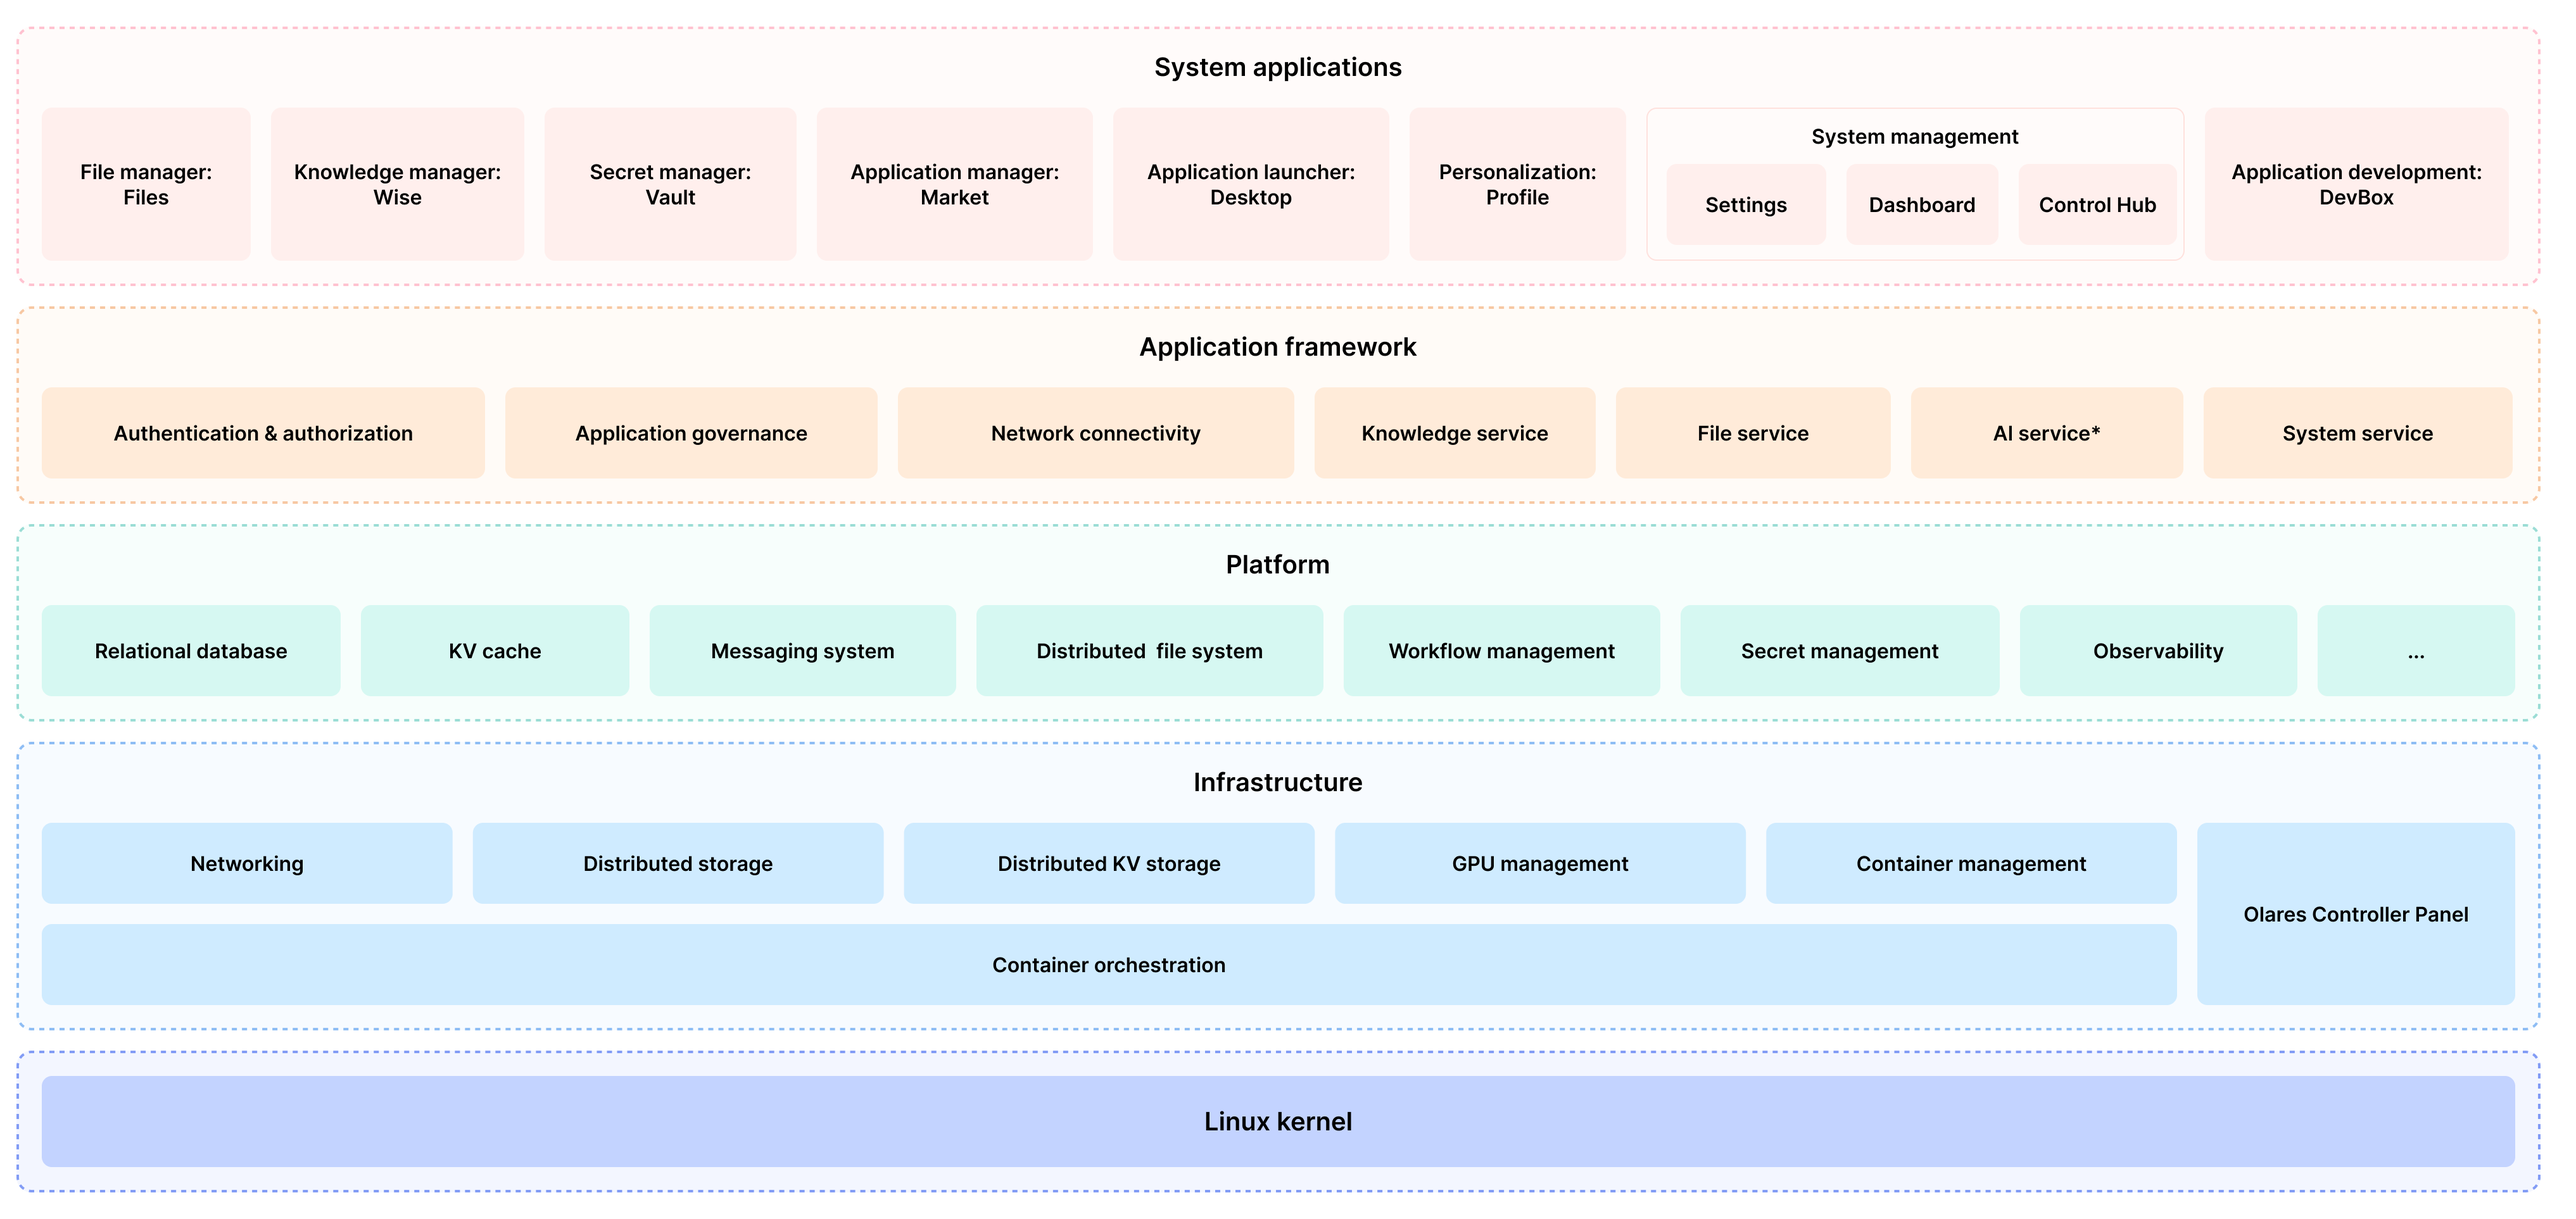
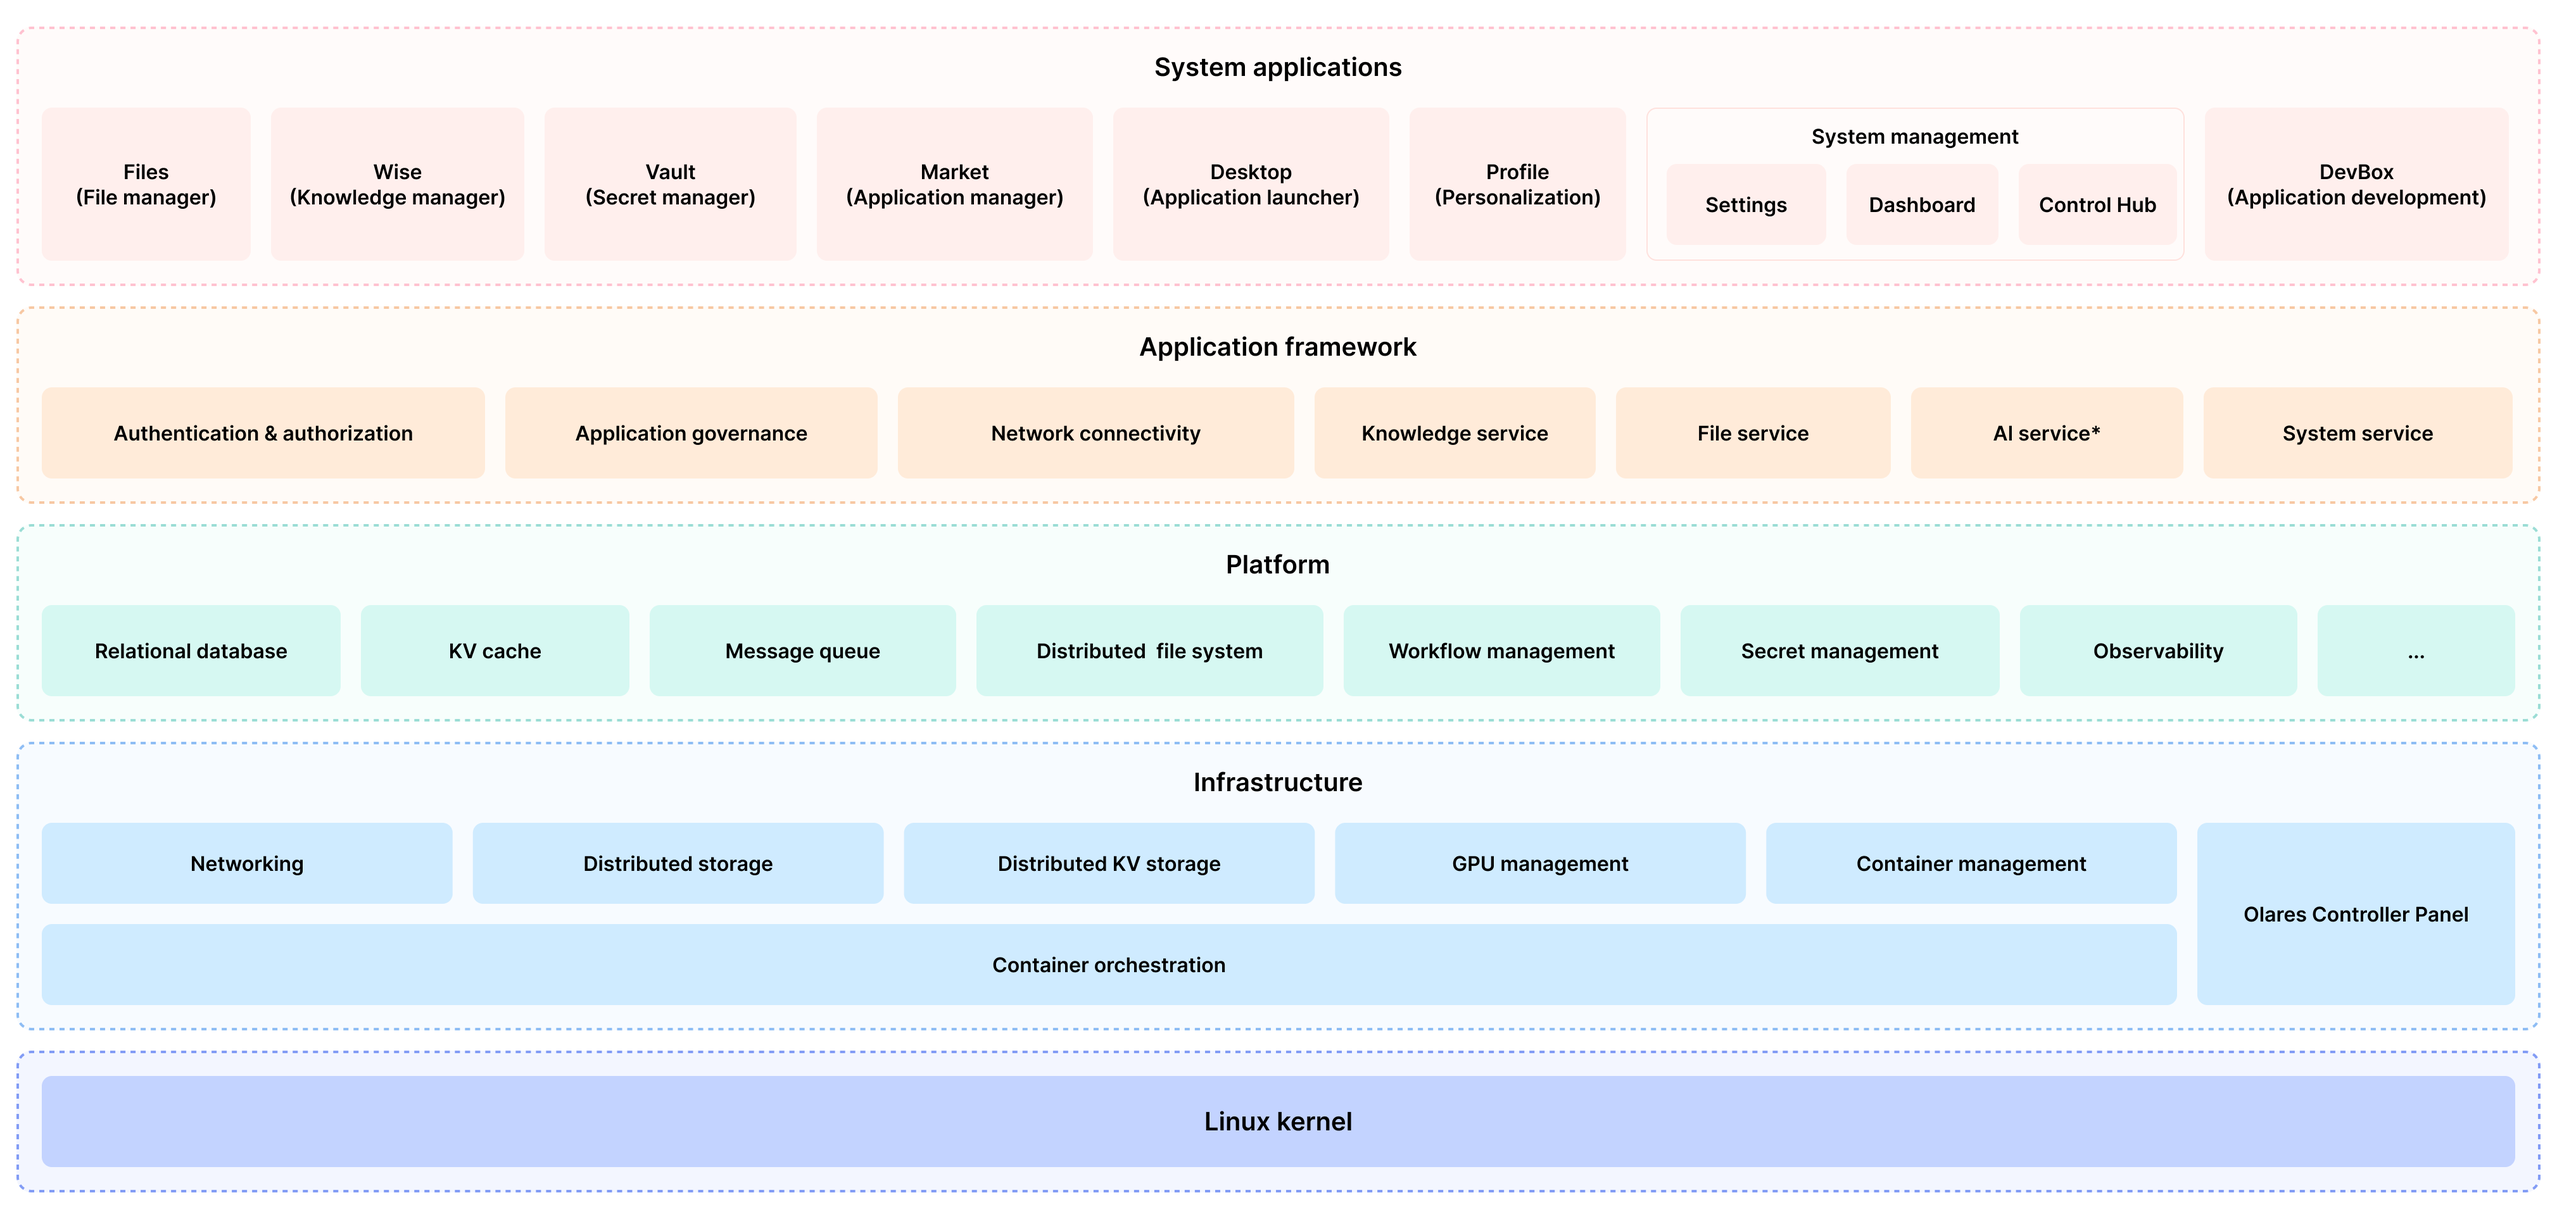
fix architecture wording

diff --git a/docs/.vitepress/en.ts b/docs/.vitepress/en.ts
@@ -8,7 +8,7 @@ const side = {
       items: [
         { text: "Why Olares", link: "/manual/why-olares" },
         { text: "Feature comparison", link: "/manual/feature-overview" },
-        { text: "Olares architecture", link: "/manual/platform-architecture" },
+        { text: "Olares architecture", link: "/manual/system-architecture" },
         {
           text: "Help and support",
           collapsed: true,

diff --git a/docs/.vitepress/zh.ts b/docs/.vitepress/zh.ts
@@ -8,7 +8,7 @@ const side = {
       items: [
         { text: "应用场景", link: "/zh/manual/why-olares" },
         { text: "功能对比", link: "/zh/manual/feature-overview" },
-        { text: "系统架构", link: "/zh/manual/platform-architecture" },
+        { text: "系统架构", link: "/zh/manual/system-architecture" },
         {
           text: "帮助与支持",
           collapsed: true,

diff --git a/docs/manual/system-architecture.md b/docs/manual/system-architecture.md
@@ -85,7 +85,7 @@ In the future, PostgreSQL is expected to migrate to the infrastructure layer for
 
 Olares integrates [KVRocks](https://github.com/apache/incubator-kvrocks), a Redis-compatible persistent key-value store built on RocksDB. KVRocks balances memory and disk storage, making it more resource-efficient than Redis clusters, though slightly slower in performance.
 
-### Messaging system
+### Message queue
 
 Olares integrates [NATS](https://nats.io/), a lightweight and high-performance message-oriented middleware, as the messaging system. NATS ensures low resource consumption while delivering reliable message queues.
 
